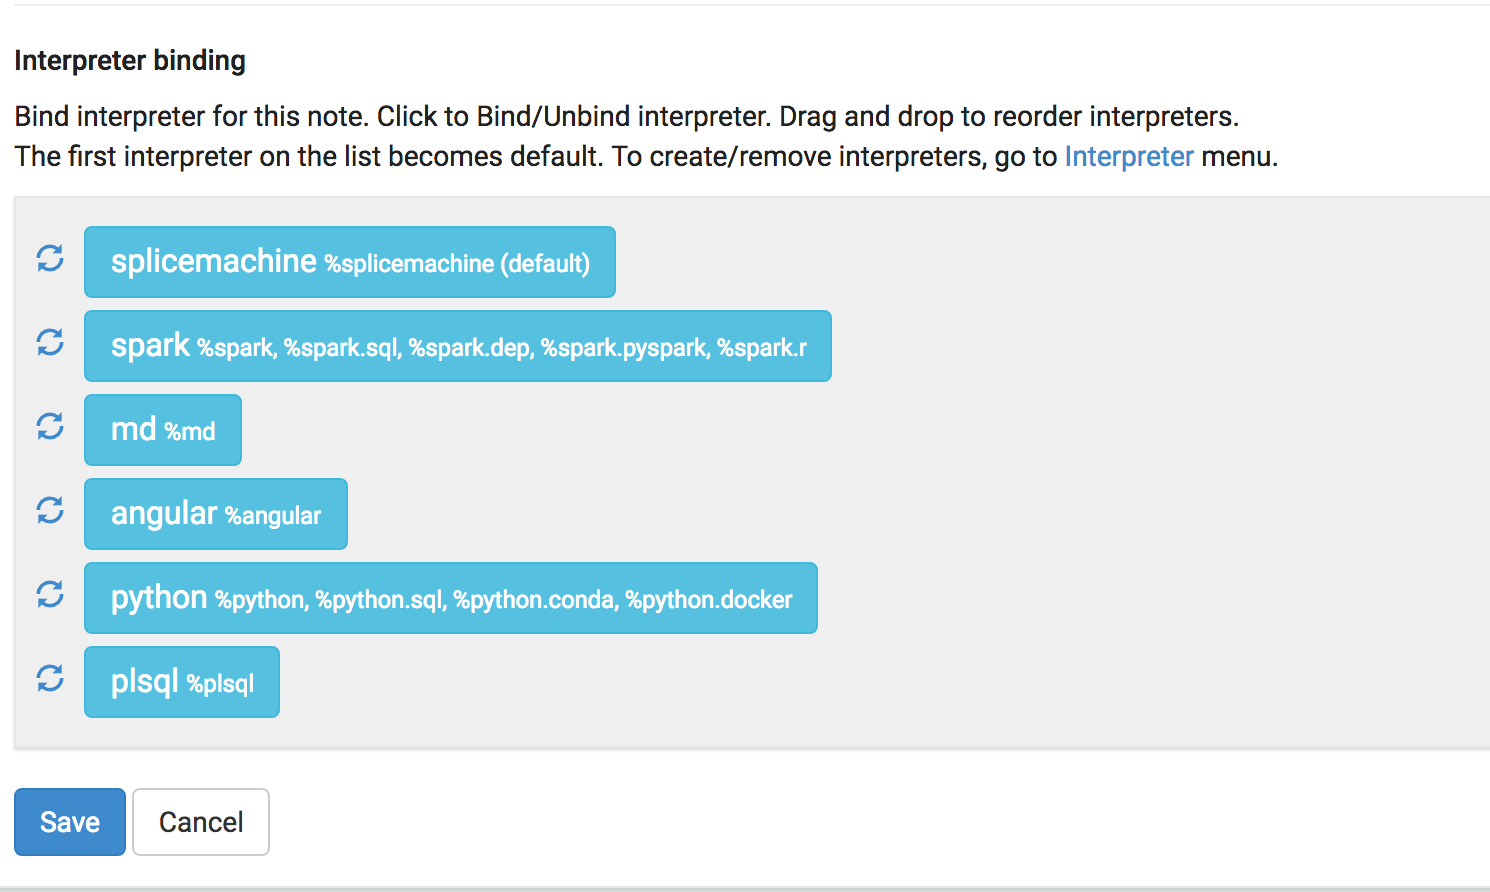
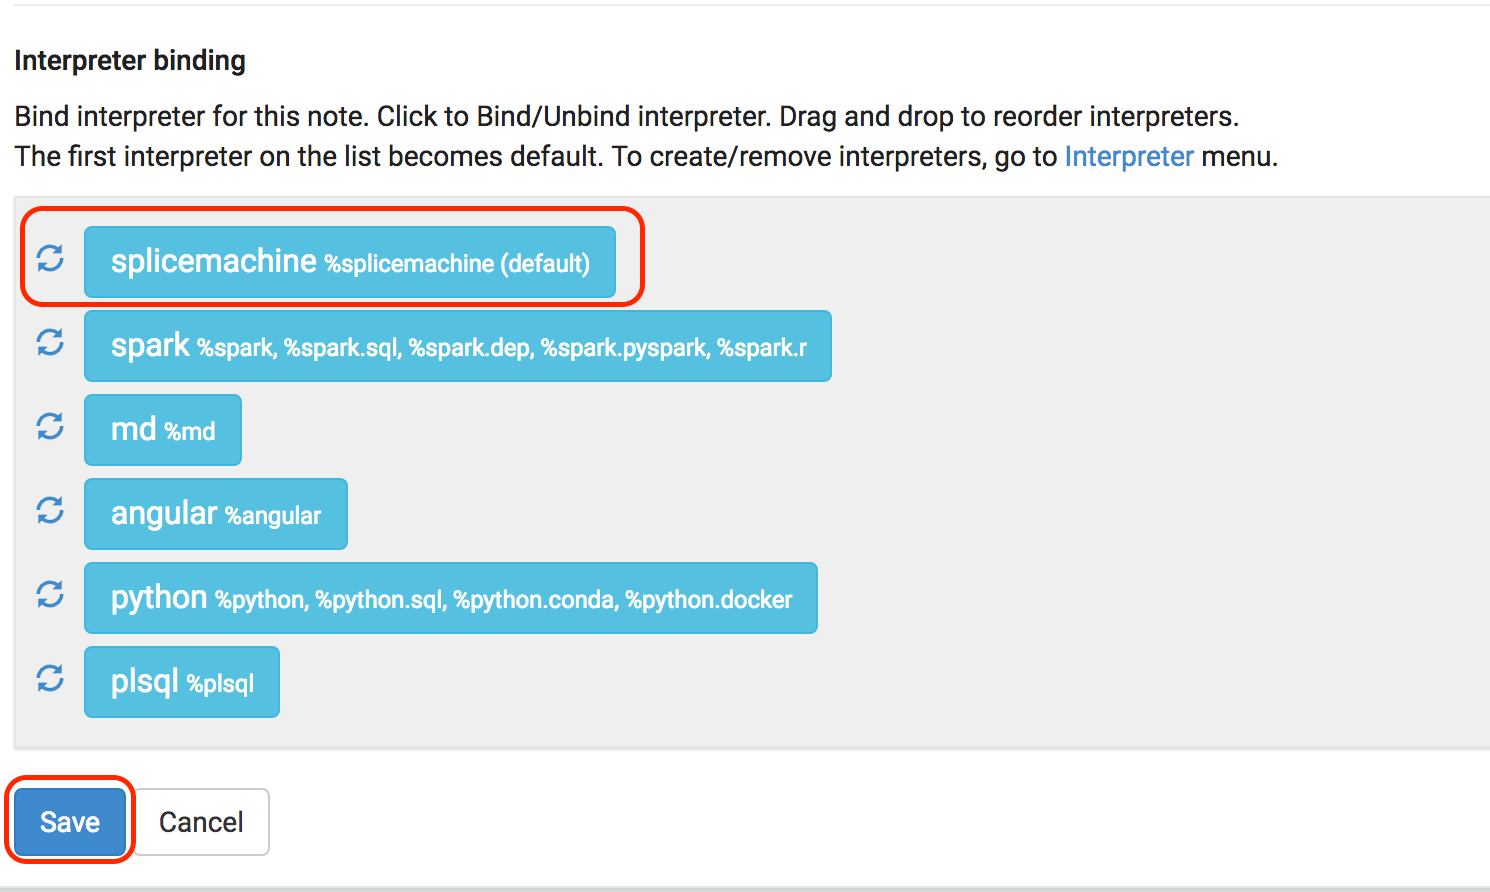
Working on Zeppelin getting started and simple tutorial pages

diff --git a/pages/DBaaS/Zeppelin/ZeppelinGetStarted.html b/pages/DBaaS/Zeppelin/ZeppelinGetStarted.html
@@ -11,84 +11,72 @@ folder: DBaaS/Zeppelin
 	<section>
 		<div class="TopicContent">
         <h1>Getting Started with Zeppelin</h1>
-        <p>&#160;</p>
+        <p>This topic helps you to get started with using Zeppelin with your Splice Machine database.</p>
+        <div class="noteNote">We strongly encourage you to visit the <a href="https://zeppelin.apache.org/docs/">Zeppelin documentation site</a> to learn about creating, modifying, and running your own Zeppelin notebooks.</div>
+        <h2>The Zeppelin Dashboard</h2>
         <p>When you click the <span class="CalloutFont">Notebook</span> button in your Cluster Management dashboard, you land on the Zeppelin welcome page. To start using Zeppelin with your database service, you need to log in to your database by clicking the <span class="ConsoleLink">Login</span> button.</p>
         <p>
             <img src="images/Notebooks1.png" class="indentedTightSpacing" />
         </p>
-        <p>Once you're logged into Zeppelin for your database, you'll see the Zeppelin dashboard. From there, you can run already-created notebooks, modify existing notebooks, and create new notebooks.</p>
+        <p>When you log into Zeppelin for your database, you'll land on the Zeppelin dashboard. From there, you can run already-created notebooks, modify existing notebooks, and create new notebooks. Our next topic, <a href="dbaas_zep_simple.html">A Simple Tutorial</a>, uses the Zeppelin Basic tutorial:</p>
         <p>
-            <img src="images/Notebook2.png" class="indentedTightSpacing" />
+            <img src="images/ZepDashboard2.png" class="indentedTightSpacing" />
         </p>
-
-
         <h2 id="toolbar">The Zeppelin Note Toolbar</h2>
         <p>Zeppelin displays a toolbar at the top of each note that provides convenient access to a number of options:</p>
         <p><img src="images/ZepToolbar.png" class="indentedTightSpacing"></p>
         <p>The following table describes the toolbar buttons:</p>
         <table>
             <tr>
-                <td><img src="images/ZepToolbarIcon1.png"></td>
+                <td><img src="images/ZepToolbarIcon1.png" class="icon36"></td>
                 <td>Executes all of the paragraphs in the note, in display-order sequence.</td>
             </tr>
             <tr>
-                <td><img src="images/ZepToolbarIcon2.png"></td>
+                <td><img src="images/ZepToolbarIcon2.png" class="icon36"></td>
                 <td>Shows or hides the code sections of the paragraphs in the note.</td>
             </tr>
             <tr>
-                <td><img src="images/ZepToolbarIcon3.png"></td>
+                <td><img src="images/ZepToolbarIcon3.png" class="icon36"></td>
                 <td>Shows or hides the result sections of the paragraphs in the note.</td>
             </tr>
             <tr>
-                <td><img src="images/ZepToolbarIcon4.png"></td>
+                <td><img src="images/ZepToolbarIcon4.png" class="icon36"></td>
                 <td>Clears the result sections of the paragraphs in the note.</td>
             </tr>
             <tr>
-                <td><img src="images/ZepToolbarIcon5.png"></td>
+                <td><img src="images/ZepToolbarIcon5.png" class="icon36"></td>
                 <td>Clones the current note.</td>
             </tr>
             <tr>
-                <td><img src="images/ZepToolbarIcon6.png"></td>
+                <td><img src="images/ZepToolbarIcon6.png" class="icon36"></td>
                 <td>Exports the current note in JSON format.
                 <div class="noteNote">The code and result sections of all paragraphs are exported; you might want to clear your results before exporting a note.</td>
             </tr>
             <tr>
-                <td><img src="images/ZepToolbarIcon7.png"></td>
-                <td>???</td>
+                <td><img src="images/ZepToolbarIcon7.png" class="icon36"></td>
+                <td>Switches between personal and collaboration modes.</td>
             </tr>
             <tr>
-                <td><img src="images/ZepToolbarIcon8.png"></td>
-                <td>Commits the content of the current node.</td>
+                <td><img src="images/ZepToolbarIcon8.png" class="icon36"></td>
+                <td>Commits changes that you've made to the content of the current note (and allows you to add a commit note).</td>
             </tr>
             <tr>
-                <td><img src="images/ZepToolbarIcon12.png"></td>
+                <td><img src="images/ZepToolbarIcon9.png" class="icon72"></td>
+                <td>Displays the revision you're currently viewing, and lets you select from available revisions.</td>
+            </tr>
+            <tr>
+                <td><img src="images/ZepToolbarIcon12.png" class="icon36"></td>
                 <td>Deletes the note.</td>
             </tr>
             <tr>
-                <td><img src="images/ZepToolbarIcon13.png"></td>
+                <td><img src="images/ZepToolbarIcon13.png" class="icon36"></td>
                 <td>Schedules execution of the note, using CRON syntax.</td>
-            </tr>
-            <tr>
-                <td><img src="images/ZepToolbarIcon9.png"></td>
-                <td>Displays keyboard shortcuts.</td>
-            </tr>
-            <tr>
-                <td><img src="images/ZepToolbarIcon10.png"></td>
-                <td>Configures interpreter bindings for the current note.</td>
-            </tr>
-            <tr>
-                <td><img src="images/ZepToolbarIcon11.png"></td>
-                <td>Sets permissions for the note.</td>
-            </tr>
-            <tr>
-                <td><img src="images/ZepToolbarIcon13.png"></td>
-                <td>Cycles among the available display modes for the note: <span class="ItalicFont">default</span>, <span class="ItalicFont">simple</span>, and <span class="ItalicFont">report</span> modes.</td>
             </tr>
         </table>
         <h2 id="interpreter">Setting SpliceMachine as the Default Interpreter</h2>
-        <p>The first time you run a Zeppelin notebook, you need to make sure that the Zeppelin Splice Machine interpreter is configured as your default interpreter. This is a simple matter of moving our interpreter to the top of the list that displays when you first open </p>
+        <p>The first time you run a Zeppelin notebook, you need to make sure that the Splice Machine interpreter is configured as your default Zeppelin interpreter. This is a simple matter of moving our interpreter to the top of the list that displays when you first open </p>
         <p><img src="images/ZepInterpreters.png" class="indentedTightSpacing" /><p>
-        <p>To bind the splicemachine interpreter as the default interpreter for this Zeppelin notebook, drag it to the top of the list, then click the <span class="ConsoleLink">Save</span> button.</p>
+        <p>To bind the splicemachine interpreter as the default interpreter for this Zeppelin notebook, drag it to the top of the list, then click the <span class="ConsoleLink">Save</span> button:</p>
         <p><img src="images/ZepDefaultInterpreter.png" class="indentedTightSpacing" /><p>
         <p> </p>
 

diff --git a/pages/DBaaS/Zeppelin/SimpleZeppelin.html b/pages/DBaaS/Zeppelin/SimpleZeppelin.html
@@ -11,33 +11,33 @@ folder: DBaaS/Zeppelin
 	<section>
 		<div class="TopicContent">
         <h1>A Simple Zeppelin Tutorial</h1>
-
-        <p>This simple tutorial uses </p>
-        <p>You can access this Zeppelin notebook by clicking the Basics (Spark) link under Zeppelin
-        <h2 id="setup">Set SpliceMachine as the Default Interpreter</h2>
-        <p>The first time you run a Zeppelin notebook, you need to make sure that the Zeppelin Splice Machine interpreter is configured as your default interpreter. This is a simple matter of moving our interpreter to the top of the list that displays when you first open </p>
-        <p><img src="images/ZepInterpreters.png" class="indentedTightSpacing" /><p>
-        <p>To bind the splicemachine interpreter as the default interpreter for this Zeppelin notebook, drag it to the top of the list, then click the <span class="ConsoleLink">Save</span> button.</p>
-        <p><img src="images/ZepDefaultInterpreter.png" class="indentedTightSpacing" /><p>
-        <p> </p>
-        <h2 id="load">Load the Data</h2>
-        <p> </p>
+        <p>This topic walks you through using a very simple Zeppelin notebook, to help you learn about using Zeppelin with Splice Machine.</p>
+         <div class="noteNote">Our <a href="dbaas_zep_getstarted">Getting Started with Zeppelin</a> page provides a very brief overview of using Zeppelin; If you're new to Zeppelin, we strongly encourage you to visit the <a href="https://zeppelin.apache.org/docs/">Zeppelin documentation site</a> to learn about creating, modifying, and running your own Zeppelin notebooks.</div>
+        <h2>Running the Tutorial Notebook</h2>
+        <p>You can access this Zeppelin notebook by clicking the Basics (Spark) link under Zeppelin Tutorials on the Zeppelin Dashboard page. Once you've opened the tutorial, you can execute these steps:</p>
+        <ul>
+            <li><a href="#load">Load the Demo Data</a></li>
+            <li><a href="#query">Query the Data</a></li>
+            <li><a href="#view">Apply Different Visualizations to Results</a></li>
+        </ul>
+        <h3 id="load">Load the Data</h2>
+        <p>To load the demo data for this tutorial, simply click the <img src="images/ZepPlayButton.png"> Zeppelin play button, which you'll find on the right side of the <span class="BoldFont">Load data into table</span> title line.</p>
         <p><img src="images/ZepSimple1.png" class="indentedTightSpacing" /><p>
-        <p> </p>
-        <p> </p>
-        <h2 id="setup">View Query Results</h2>
-        <p> </p>
+        <p>When you click the <span class="ConsoleLink">Play</span> button, Zeppelin runs the paragraphs that loads your data and displays the <i>Finished</i> message.</p>
+         <div class="noteNote">If you see an <span class="ItalicFont">Error</span> instead of <span class="ItalicFont">Finished</span>, it almost certainly means that you've forgotten to set SpliceMachine interpreter as the default.</div>
+        <h3 id="query">Query the Data</h2>
+        <p>Once you've loaded data into the tables, you can experience the value and flexibility of Zeppelin: it's quite simple to visualize your results in various ways, including:</p>
+        <ul>
+            <li>tabular format</li>
+            <li>bar chart</li>
+            <li>pie chart</li>
+            <li>scatter plot</li>
+        </ul>
+        <p>Here's an initial set of visualizations:</p>
         <p><img src="images/ZepSimple2.png" class="indentedTightSpacing" /><p>
-        <p> </p>
-        <p> </p>
-        <h2 id="setup">Set our Interpreter as the Default</h2>
-        <p> </p>
+        <h3 id="view">Apply Different Visualizations to Your Results</h2>
+        <p>You can easily modify the presentation of your query results to use different visualizations by clicking different visualization icons in the output pane. You can define and modify the values of variables that you use in your queries; for example, the <span class="CodeFont">maxAge</span> and <span class="CodeFont">marital</span> values in the examples below:</p>
         <p><img src="images/ZepSimple3.png" class="indentedTightSpacing" /><p>
-        <p> </p>
-        <p> </p>
-        <h2 id="setup">Set our Interpreter as the Default</h2>
-        <p> </p>
-        <p><img src="images/ZepSimple4.png" class="indentedTightSpacing" /><p>
         <p> </p>
     </div>
 </section>

diff --git a/_site/css/splicemain.css b/_site/css/splicemain.css
@@ -1605,7 +1605,7 @@ img {
 
 img.indentedTightSpacing {
   width: auto;
-  max-width: 98%;
+  max-width: 65%;
   height: auto;
   margin: 0px 20px 0px 40px; }
 
@@ -1620,6 +1620,16 @@ img.tableCell450 {
   max-width: 450px;
   height: auto;
   margin: 0px 20px 0px 40px; }
+
+img.icon36 {
+  width: 36px;
+  height: auto;
+  margin: 0 0 0 0; }
+
+img.icon72 {
+  width: 72px;
+  height: auto;
+  margin: 0 0 0 0; }
 
 body,
 p,

diff --git a/_sass/components/_images.scss b/_sass/components/_images.scss
@@ -10,7 +10,7 @@ img
 img.indentedTightSpacing
 {
 	width: auto;
-	max-width: 98%;
+	max-width: 65%;
 	height: auto;
 	margin: 0px 20px 0px 40px;
 }
@@ -31,3 +31,16 @@ img.tableCell450
 	margin: 0px 20px 0px 40px;
 }
 
+img.icon36
+{
+    width: 36px;
+    height: auto;
+    margin: 0 0 0 0 ;
+}
+
+img.icon72
+{
+    width: 72px;
+    height: auto;
+    margin: 0 0 0 0;
+}
